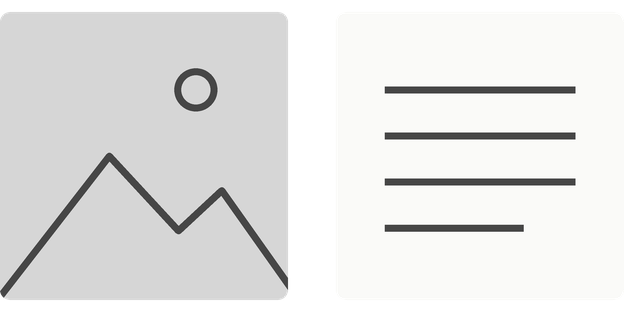
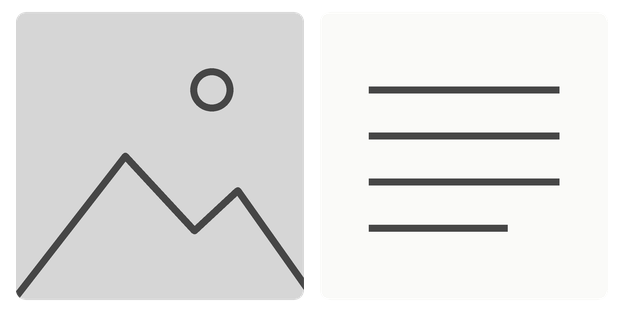
Let's get started / Upload Images: a solid mid-grey box, the chosen layout a darker grey, the two pages in each layout picture closer together
Claude-Session: https://claude.ai/code/session_01NDsvQ4w6b4M39K7iEhCswz

diff --git a/src/screens/Publisher.js b/src/screens/Publisher.js
@@ -322,7 +322,7 @@ function UploadImages({ tr, winW, insets, onSkip, onGo, intro = false }) {
     return (
       <Pressable onPress={() => setLayout(v)} accessibilityRole="radio" accessibilityState={{ selected: on }} accessibilityLabel={rec ? `${label} ${rec}` : label}
         style={{ width: tileW, alignItems: 'center', gap: 10 }}>
-        <View style={{ width: tileW, height: Math.round(tileW * 0.62), borderRadius: 12, borderWidth: 1.5, borderColor: on ? colors.white : 'transparent', backgroundColor: on ? '#3a3a3a' : 'transparent' /* the chosen one: a dark grey box, white outline (Jörg, 5 Nov 2026) */, alignItems: 'center', justifyContent: 'center' }}>
+        <View style={{ width: tileW, height: Math.round(tileW * 0.62), borderRadius: 12, borderWidth: 1.5, borderColor: on ? colors.white : 'transparent', backgroundColor: on ? '#2a2a2a' : 'transparent' /* the chosen one: a darker grey than the box, white outline (Jörg, 7 Nov 2026) */, alignItems: 'center', justifyContent: 'center' }}>
           <Image source={QUICK_ICONS[v]} style={{ width: Math.round(tileW * 0.56), height: Math.round(tileW * 0.28) }} resizeMode="contain" accessibilityIgnoresInvertColors />
         </View>
         <View style={{ alignItems: 'center' }}>
@@ -334,7 +334,7 @@ function UploadImages({ tr, winW, insets, onSkip, onGo, intro = false }) {
   };
   return (
     <ScrollView contentContainerStyle={{ alignItems: 'center', paddingTop: insets.top + 56, paddingBottom: 40, paddingHorizontal: 20 }}>
-      <View style={{ width: boxW, backgroundColor: 'rgba(0,0,0,0.7)' /* a little more see-through than the other boxes (Jörg, 5 Nov 2026) */, borderRadius: 24, paddingHorizontal: 24, paddingTop: 28, paddingBottom: 26 }}>
+      <View style={{ width: boxW, backgroundColor: '#373737' /* a solid mid grey (Jörg, 7 Nov 2026; was see-through black glass) */, borderRadius: 24, paddingHorizontal: 24, paddingTop: 28, paddingBottom: 26 }}>
         <Text style={{ color: colors.white, fontFamily: fonts.uiBold, fontSize: 28, lineHeight: 34 }}>{intro ? tr('Let’s get started!') : tr('Upload Images')}</Text>
         {intro ? (
           // the first thing a new book offers (Jörg, 4 Nov 2026)
